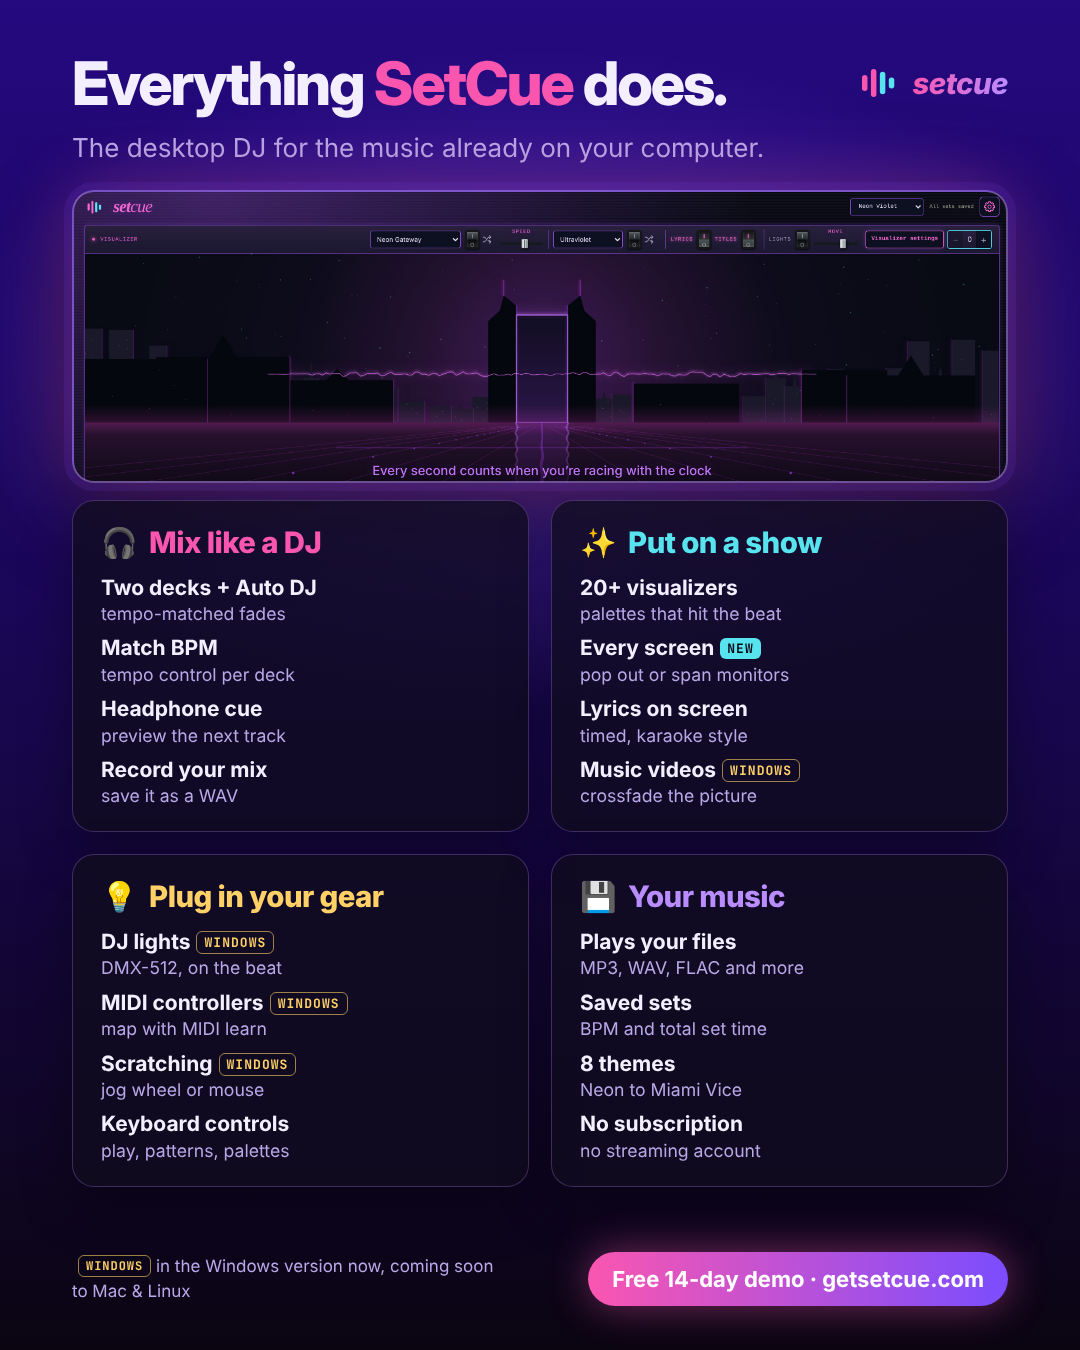
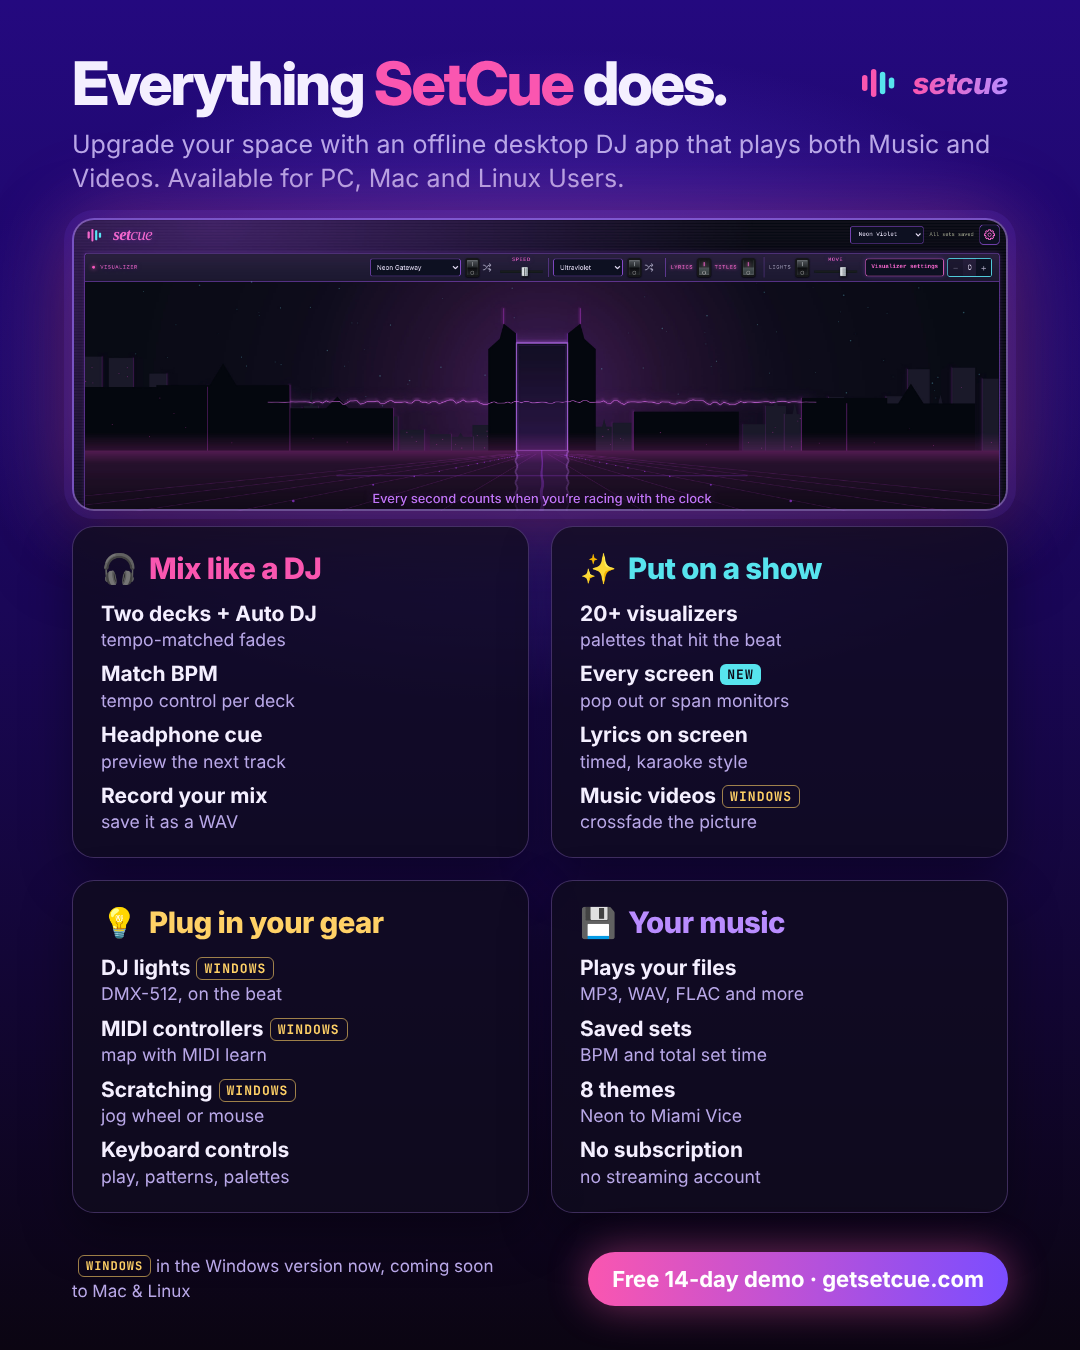
Feature graphic: new subtitle
Claude-Session: https://claude.ai/code/session_01D51CBzHBfMs7VQ5wezCEZW

Changed region(s): [[0.0611, 0.0933, 0.9472, 0.6222], [0.0917, 0.6533, 0.3667, 0.9022], [0.5194, 0.6533, 0.7333, 0.9022]]

diff --git a/marketing/features/render.js b/marketing/features/render.js
@@ -74,9 +74,9 @@ function portrait() {
     <div style="position:absolute;left:72px;right:72px;top:54px;display:flex;justify-content:space-between;align-items:center">
       <h1 style="font-size:60px">Everything <em>SetCue</em> does.</h1>${logo(28)}
     </div>
-    <div style="position:absolute;left:72px;top:132px;font-size:26px;color:var(--muted)">The desktop DJ for the music already on your computer.</div>
-    ${appShot({ x: 0, y: 0, w: 3200, h: 1000 }, 72, 190, 936)}
-    ${grid(GROUPS, 21, 'left:72px;right:72px;top:500px')}
+    <div style="position:absolute;left:72px;right:72px;top:128px;font-size:25px;line-height:1.35;color:var(--muted)">Upgrade your space with an offline desktop DJ app that plays both Music and Videos. Available for PC, Mac and Linux Users.</div>
+    ${appShot({ x: 0, y: 0, w: 3200, h: 1000 }, 72, 218, 936)}
+    ${grid(GROUPS, 21, 'left:72px;right:72px;top:526px')}
     <div style="position:absolute;left:72px;right:72px;bottom:44px;display:flex;justify-content:space-between;align-items:center">
       <div style="font-size:17px;color:var(--muted);max-width:440px;line-height:1.5">${legend(12)}</div>
       <div class="pill" style="font-size:22px;padding:14px 24px;white-space:nowrap">Free 14-day demo · getsetcue.com</div>
@@ -91,7 +91,7 @@ function landscape() {
     <div style="position:absolute;left:80px;top:70px">
       ${logo(36)}
       <h1 style="font-size:84px;margin-top:30px">Everything <em>SetCue</em> does.</h1>
-      <div style="font-size:30px;color:var(--muted);margin-top:16px">The desktop DJ for the music already on your computer.</div>
+      <div style="font-size:28px;line-height:1.35;color:var(--muted);margin-top:16px;max-width:900px">Upgrade your space with an offline desktop DJ app that plays both Music and Videos. Available for PC, Mac and Linux Users.</div>
     </div>
     ${appShot({ x: 0, y: 0, w: 3200, h: 2000 }, 80, 400, 860)}
     ${grid(GROUPS, 24, 'left:1010px;right:76px;top:70px')}
